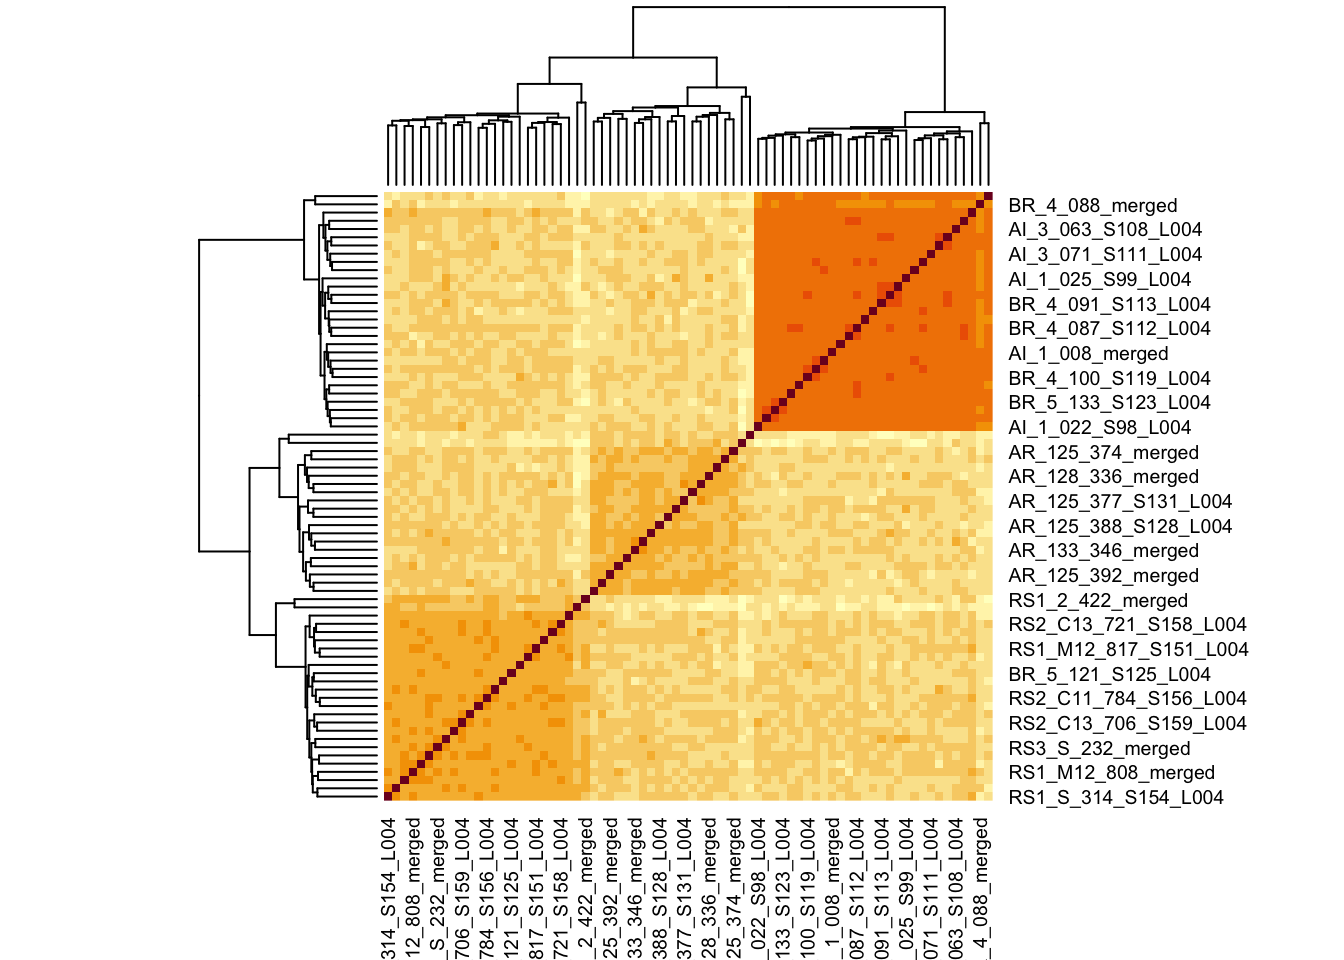
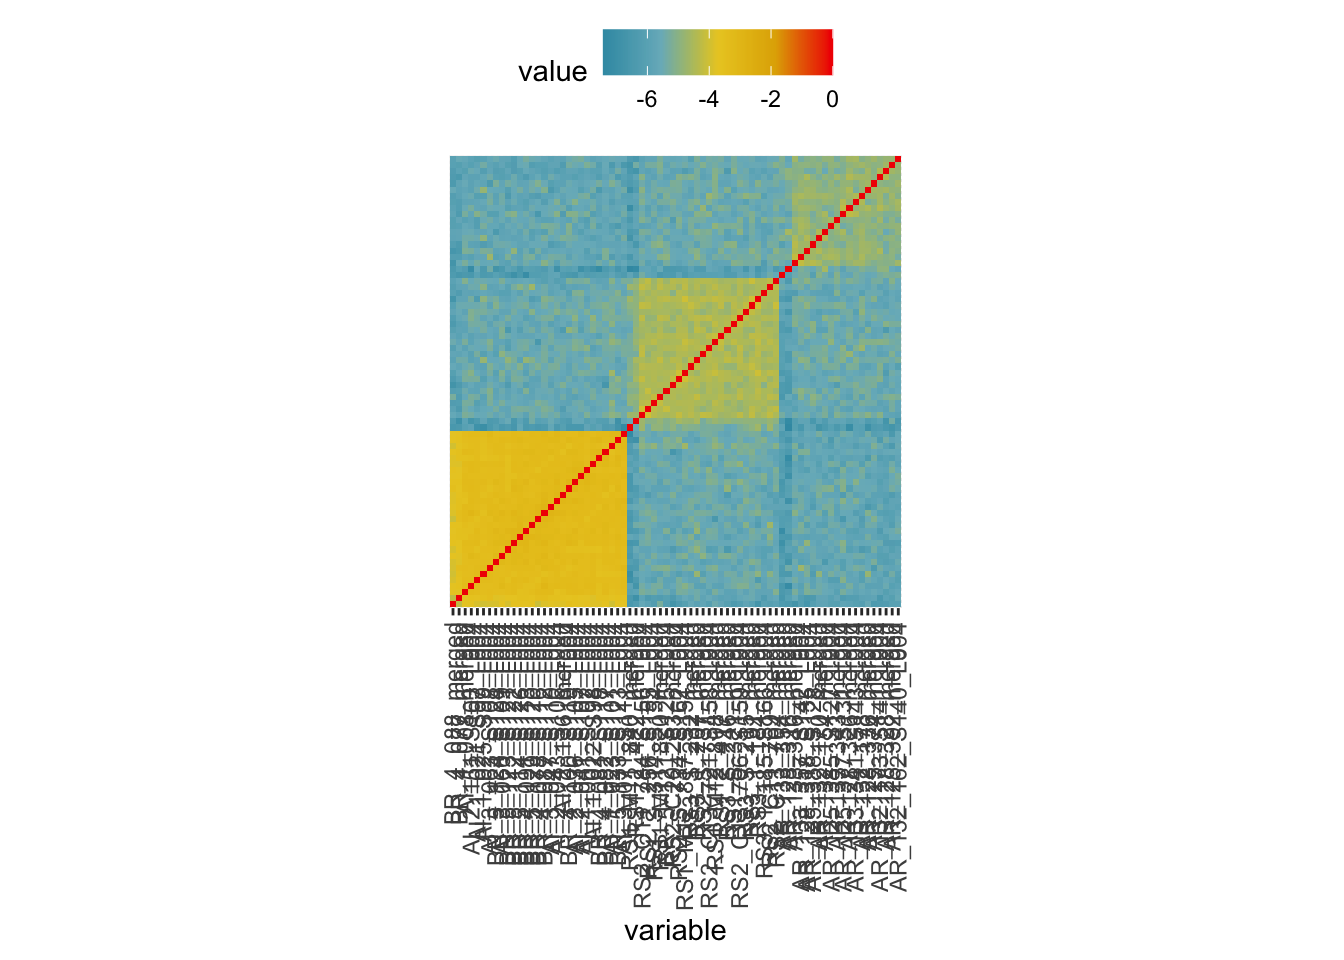
update ibg plot

diff --git a/05.ibd_segments.md b/05.ibd_segments.md
@@ -4,8 +4,9 @@ IBD segments in haplotype data
 Any two samples in a population can be traced back to their most recent
 common ancestor by sharing identity-by-descent haplotypes. Although we
 don’t have a chromosome-level reference genome, the version two of
-A.digitifera display significant improvement in N50 size, thus it is
-worth investigating the haplotype sharing patterns in population.
+*A.digitifera* display significant improvement in N50 size, thus it is
+worth investigating the haplotype segments sharing pattern in
+population.
 
 ### Infer identity-by-descent segemnts
 
@@ -39,7 +40,7 @@ haplotype length divided by the total chromosome length\*2.
 cat *.merged.ibd | python2 relatedness_v1.py map.txt 0 > Adigi_ind74.ibd_relatedness.txt
 ```
 
-<img src="05.ibd_segments_files/figure-gfm/unnamed-chunk-1-1.png" width="672" />
+<img src="05.ibd_segments_files/figure-gfm/ibd-relatedness-plot-1.png" width="576" />
 
 **Figure:** A heatmap shows the pairwise relatedness based on shared
 haplotypes. A darker color means a higher relatedness.
